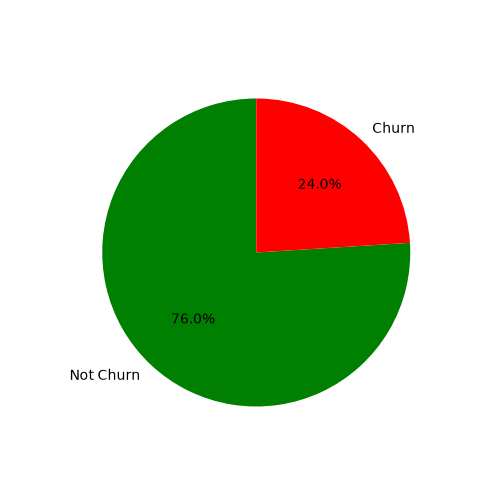
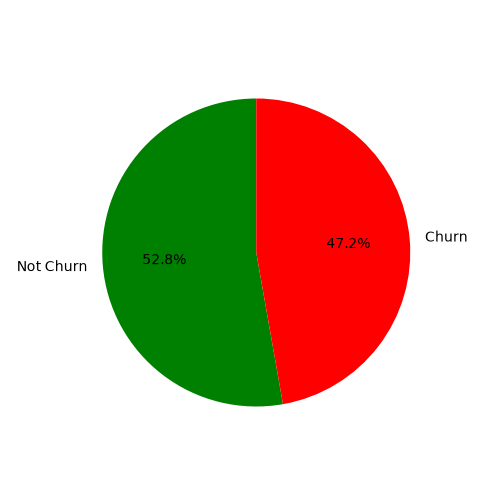
Add SHAP explainability and feature impact analysis

diff --git a/templates/result.html b/templates/result.html
@@ -95,6 +95,137 @@ style="width:{{ confidence }}%;">
 
 <div style="margin-top:20px;
 font-size:22px;">
+<div class="recommendation">
+
+    <h2>
+        <i class="fa-solid fa-brain"></i>
+        Why this prediction?
+    </h2>
+
+    <p style="
+        text-align:center;
+        color:#94a3b8;
+        margin-bottom:25px;
+    ">
+        Key factors influencing the model's prediction
+    </p>
+
+    {% set positive_features = [] %}
+    {% set negative_features = [] %}
+
+    {% for feature, impact in top_shap_features %}
+
+        {% if impact > 0 %}
+
+            {% set _ = positive_features.append((feature, impact)) %}
+
+        {% else %}
+
+            {% set _ = negative_features.append((feature, impact)) %}
+
+        {% endif %}
+
+    {% endfor %}
+
+
+    {% if positive_features %}
+
+    <h3 style="
+        color:#ff6b6b;
+        margin:20px 0 15px;
+    ">
+
+        <i class="fa-solid fa-arrow-trend-up"></i>
+
+        Factors increasing churn risk
+
+    </h3>
+
+    {% for feature, impact in positive_features %}
+
+    <div style="
+        display:flex;
+        align-items:center;
+        justify-content:space-between;
+        gap:20px;
+        padding:16px 20px;
+        margin:10px 0;
+        background:rgba(220,53,69,.10);
+        border:1px solid rgba(220,53,69,.20);
+        border-radius:12px;
+    ">
+
+        <strong>
+
+            {{ feature }}
+
+        </strong>
+
+        <span style="
+            color:#ff6b6b;
+            font-weight:600;
+        ">
+
+            ↑ Churn Risk
+
+        </span>
+
+    </div>
+
+    {% endfor %}
+
+    {% endif %}
+
+
+    {% if negative_features %}
+
+    <h3 style="
+        color:#4ade80;
+        margin:25px 0 15px;
+    ">
+
+        <i class="fa-solid fa-arrow-trend-down"></i>
+
+        Factors reducing churn risk
+
+    </h3>
+
+    {% for feature, impact in negative_features %}
+
+    <div style="
+        display:flex;
+        align-items:center;
+        justify-content:space-between;
+        gap:20px;
+        padding:16px 20px;
+        margin:10px 0;
+        background:rgba(34,197,94,.10);
+        border:1px solid rgba(34,197,94,.20);
+        border-radius:12px;
+    ">
+
+        <strong>
+
+            {{ feature }}
+
+        </strong>
+
+        <span style="
+            color:#4ade80;
+            font-weight:600;
+        ">
+
+            ↓ Churn Risk
+
+        </span>
+
+    </div>
+
+    {% endfor %}
+
+    {% endif %}
+
+</div>
 
 Risk Level :
 
@@ -112,7 +243,7 @@ Risk Level :
 
 <i class="fa-solid fa-lightbulb"></i>
 
-AI Recommendations
+<h2>Recommended Actions</h2>
 
 </h2>
 

diff --git a/app.py b/app.py
@@ -5,6 +5,7 @@ import sqlite3
 from datetime import datetime
 import matplotlib
 import numpy as np
+import shap
 matplotlib.use('Agg')
 
 import matplotlib.pyplot as plt
@@ -19,7 +20,7 @@ from flask import Response
 app = Flask(__name__)
 
 model = joblib.load("models/logistic_model.pkl")
-
+explainer = shap.LinearExplainer(model, model.coef_)
 def create_feature_importance():
 
     feature_names = [
@@ -87,6 +88,7 @@ def home():
     return render_template("index.html")
 
 @app.route("/predict", methods=["POST"])
+@app.route("/predict", methods=["POST"])
 def predict():
 
     user_data = {}
@@ -116,7 +118,28 @@ def predict():
     result = model.predict(df)
     probability = model.predict_proba(df)
 
+    shap_values = explainer.shap_values(df)
+
+    if isinstance(shap_values, list):
+        shap_values = shap_values[0]
+
+    feature_names = df.columns.tolist()
+
+    feature_impact = list(
+        zip(feature_names, shap_values[0])
+    )
+
+    feature_impact.sort(
+        key=lambda x: abs(x[1]),
+        reverse=True
+    )
+
+    top_shap_features = feature_impact[:5]
+
+    #print("SHAP:", top_shap_features)
+    
     if result[0] == 1:
+
         confidence = round(probability[0][1] * 100, 2)
         output = "Customer Will Churn"
         risk = "High 🔴"
@@ -130,6 +153,7 @@ def predict():
         ]
 
     else:
+
         confidence = round(probability[0][0] * 100, 2)
         output = "Customer Will Not Churn"
         risk = "Low 🟢"
@@ -141,7 +165,8 @@ def predict():
             "Offer loyalty rewards.",
             "Maintain customer satisfaction."
         ]
-
+    #print("Prediction:", output)
+    #print("Classes:", model.classes_)
     conn = sqlite3.connect("churn.db")
     cursor = conn.cursor()
 
@@ -156,13 +181,14 @@ def predict():
     conn.close()
 
     return render_template(
-    "result.html",
-    prediction=output,
-    confidence=confidence,
-    risk=risk,
-    color=color,
-    recommendation=recommendation
-)
+        "result.html",
+        prediction=output,
+        confidence=confidence,
+        risk=risk,
+        color=color,
+        recommendation=recommendation,
+        top_shap_features=top_shap_features
+    )
     
 @app.route("/history")
 def history():
